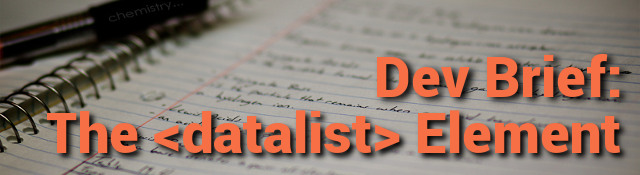
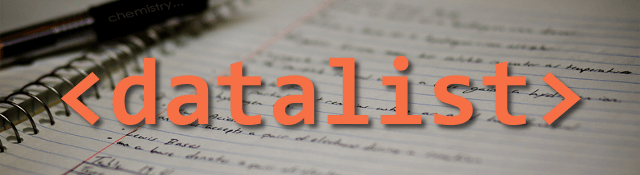
Added new blog post

diff --git a/_posts/2016-05-27-brief-overview-of-the-datalist-element.md b/_posts/2016-05-27-brief-overview-of-the-datalist-element.md
@@ -1,0 +1,94 @@
+---
+title: "A Brief Overview of the Datalist Element"
+layout: post
+tags:
+ - html
+description: "A brief overview of the HTML5 &lt;datalist&gt; element. I'll discuss how it can be used with various input types and discuss some examples of its use."
+#metadata
+image_path: "/img/datalist.png"
+---
+
+![In Brief: Datalist](/img/datalist.png "In Brief: Datalist logo")
+
+The `<datalist>` element is an HTML5 element that provides a list of suggested values for an input element. In this brief article, we'll explore the usage of the element and look at some use cases, and discuss the browser support (or lack thereof) and how we can use the feature today using polyfills.
+
+<!--more-->
+
+##The Element
+
+The `datalist` is an HTML5 element designed to augment standard text input with suggested values. You are likely already familiar with the behavior of the `datalist` element: most web browsers and search engines allow you to enter some text and a list of suggested terms appears below before you're finished typing your phrase. The `datalist` element contains all of the suggested values that appear below (or within) our input.
+
+Using the `datalist` element is pretty straightforward in and of itself:
+
+{% highlight html %}
+<input type="text" name="laptopBrands" id="laptopBrands"
+  placeholder="Enter your brand" list="brandList">
+<datalist id="brandList">
+    <option value="Acer">Acer</option>
+    <option value="Apple">Apple</option>
+    <option value="Asus">Asus</option>
+    <option value="Dell">Dell</option>
+    <option value="HP">HP</option>
+    <option value="Lenovo">Lenovo</option>
+    <option value="Samsung">Samsung</option>
+    <option value="Sony">Sony</option>
+</datalist>
+{% endhighlight %}
+
+You might notice that the `datalist` element borrows a familiar pattern from its more popular cousin, the `select` input element. The difference here is that you can define any number of datalists in your HTML, each with its own set of options. You can also include your `datalist` elements anywhere within the document, not necessarily next to your input.
+
+The specification for the `input` element and its accompanying `list` attribute is designed to work with [a variety of HTML5 inputs][1], and not just text. You can define suggested values for [color, range, number, and even date and time inputs.][2] The exceptions to the rule are the hidden, checkbox, radio and button inputs. Unfortunately, the browser support for input types other than text is limited. (See the [Browser Support Section][3] below.)
+
+##A Practical Use-Case
+
+Imagine a scenario where we want the user to select from a set of values but also want to provide them with a way to enter their own custom information, in a catch-all category labeled "other". It might look something like this:
+
+<p data-height="265" data-theme-id="0" data-slug-hash="ZWmKYa" data-default-tab="result" data-user="sdlambert" data-embed-version="2" class="codepen">See the Pen <a href="http://codepen.io/sdlambert/pen/ZWmKYa/">Select option with hidden "other" input</a> by Scott (<a href="http://codepen.io/sdlambert">@sdlambert</a>) on <a href="http://codepen.io">CodePen</a>.</p>
+<script async src="//assets.codepen.io/assets/embed/ei.js"></script>
+
+From a UX perspective this works just great, but on the interaction side we've got to implement a bit of JavaScript to make sure our selection works. We'll need to hide our "Other" text input unless the user selects the corresponding option from our drop-down. This also means to extract our values, we'll have to first check if the user selected "Other" before knowing which input contains the value we need.
+
+A much simpler solution would use a datalist:
+
+<p data-height="265" data-theme-id="0" data-slug-hash="MyzmYE" data-default-tab="result" data-user="sdlambert" data-embed-version="2" class="codepen">See the Pen <a href="http://codepen.io/sdlambert/pen/MyzmYE/">Datalist example</a> by Scott (<a href="http://codepen.io/sdlambert">@sdlambert</a>) on <a href="http://codepen.io">CodePen</a>.</p>
+<script async src="//assets.codepen.io/assets/embed/ei.js"></script>
+
+This offers a few advantages: we're no longer dependent on JavaScript to show or hide elements, and our value is now stored in a single location. We get the best of both worlds: suggested values *and* custom user input. We've improved the user experience and streamlined our input.
+
+Another cool thing we can do with datalists is display different lists under different circumstances. For instance, view the following example:
+
+<p data-height="265" data-theme-id="0" data-slug-hash="LZPeLB" data-default-tab="result" data-user="sdlambert" data-embed-version="2" class="codepen">See the Pen <a href="http://codepen.io/sdlambert/pen/LZPeLB/">Multiple Datalists</a> by Scott (<a href="http://codepen.io/sdlambert">@sdlambert</a>) on <a href="http://codepen.io">CodePen</a>.</p>
+<script async src="//assets.codepen.io/assets/embed/ei.js"></script>
+
+As you can see, we can switch the list of options based on other input selected on the form. We're back to using javascript, but we still have good UX and we are still using a single input for our values. Sprinkle in a little bit of AJAX, and we can emulate a fully functional search engine with suggestions.
+
+<h2 id="BrowserSupport">Browser Support</h2>
+
+As of right now the most comprehensive support can be found in Chrome and Opera, where most input values enjoy adequate support for most uses. Firefox and IE11+ also support the `datalist` element but are limited to text-based input for the time being. Safari has no support and will ignore the `list` attribute and will not render the `datalist` element or its children.
+
+As with most HTML5 elements, there are a few polyfills you can check out to provide support where you need it. After taking a look at [several options][4], one of the better options for a `datalist` polyfill is via the [Webshim library][5] by Alexander Farkas. At the very least, take the time to review the [full breakdown of browser support for the `datalist` element][6] and see if it's right for you.
+
+One final note, and that is the options for styling a `datalist` are limited to the input element itself (i.e. the size of the input area, border, text and background color, etc.) The selectable list of options that drops down is not styleable and dictated solely by your browser's default styling.
+
+##Conclusion
+
+I was surprised I hadn't learned more about the `datalist` element earlier. he element itself really lends itself well to enhancing the user experience and providing a unique way to provide suggested values while allowing the user to retain control over the input. And while browser support is a bit disappointing, polyfills can provide support for the element until it is more robust. Hopefully you were able to learn more about the `datalist` element, and perhaps use it on your next project. Thanks for reading!
+
+*Photo credit: <a href="https://www.flickr.com/photos/photobyrk/5724824002/">KingRobertII</a> via <a href="https://visualhunt.com">Visualhunt.com</a> / <a href="http://creativecommons.org/licenses/by-sa/2.0/">CC BY-SA</a>*
+
+Additional resources:
+
+* [HTML5 Spec of the datalist element (WHATWG)][X]
+* [David Walsh Blog: HTML5 Datalist][Y]
+* [Alexander Farkas: datalist experiment (WebShim demo)][Z]
+
+
+[1]:https://developer.mozilla.org/en-US/docs/Web/HTML/Element/input#attr-list
+[2]:https://css-tricks.com/datalists-different-input-types/
+[3]:#BrowserSupport
+[4]:https://github.com/Modernizr/Modernizr/wiki/HTML5-Cross-Browser-Polyfills
+[5]:http://afarkas.github.io/webshim/demos/
+[6]:http://caniuse.com/#feat=datalist
+[X]:https://html.spec.whatwg.org/multipage/forms.html#the-datalist-element
+[y]:https://davidwalsh.name/datalist
+[Z]:https://afarkas.github.io/webshim/demos/demos/webforms/datalist-experiment.html
